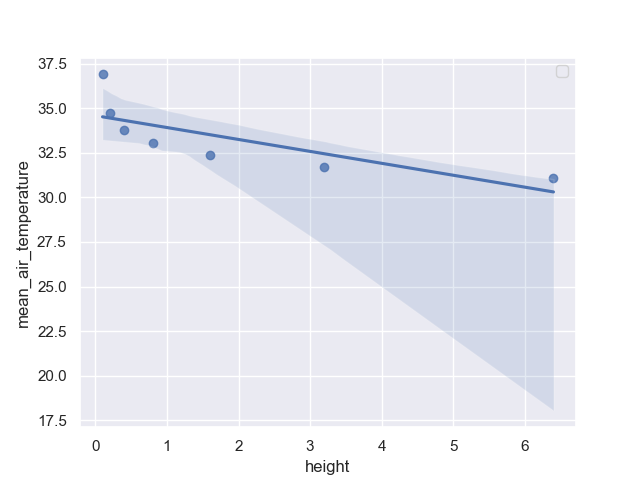
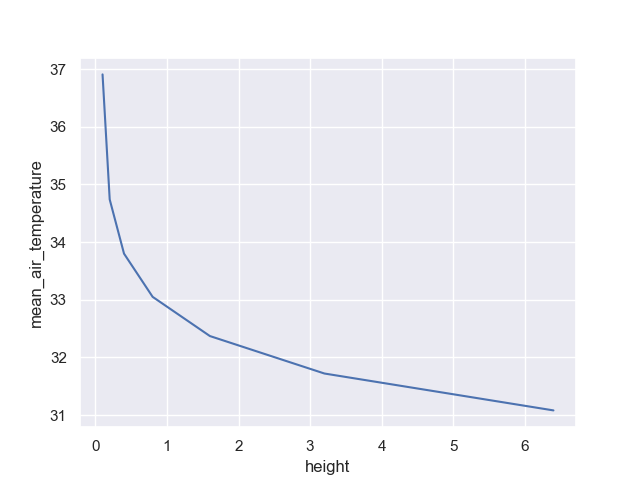
homework

diff --git a/u_and_temperature.py b/u_and_temperature.py
@@ -10,29 +10,28 @@ print(data.columns)
 h = 0.15
 data1b = np.log((data['height']-h*0.6)/(h*0.02))
 print(data1b)
-data['mean_temperature'] = data1b
-H = (8-data['mean_air_temperature'])*(0.4*1200*0.2)/data1b
+data['ln(z-d)/zH'] = data1b
+H = (38-data['mean_air_temperature'])*(0.4*1200*0.2)/data1b
 data['H'] = H
 print(data)
-
+res = ss.linregress(data['ln(z-d)/zH'], data['mean_air_temperature'])
+print(res)
 sns.set_theme(style="darkgrid")
-sns.regplot(x='height',
-            y='mean_air_temperature',
-            data=data)
+sns.lineplot(x='height',
+             y='mean_air_temperature',
+             data=data)
 
 plt.savefig("1a.png")
 plt.close()
 
 sns.set_theme(style="darkgrid")
-sns.regplot(x='height',
-            y='mean_temperature',
+sns.regplot(y='mean_air_temperature',
+            x='ln(z-d)/zH',
+            ci=None,
+            label=f' r\u00b2 = {res.rvalue**2:.2f} \n intercept = {res.intercept:.2f}',
             data=data)
+plt.legend(loc='upper right')
 plt.savefig("1b.png")
 plt.close()
 
-sns.set_theme(style="darkgrid")
-sns.lineplot(x='height',
-             y='H',
-             data=data)
-plt.savefig("1d.png")
-plt.close()
+print(data['H'].mean())

diff --git a/day_degree.py b/day_degree.py
@@ -1,0 +1,31 @@
+import pandas as pd
+import numpy as np
+from tqdm import tqdm
+
+df = pd.read_excel(r'C:\\Users\Administrator\Desktop\day_degree.xlsx')
+print(df)
+baseT = 3
+finalT = 900
+a = 0
+print(df['Tx'][1])
+i = 0
+for day in tqdm(range(120, 220)):
+    if (df['Tx'][i] + df['Tn'][i])/2 >= baseT:
+        a = a + (df['Tx'][i] + df['Tn'][i])/2
+    if a >= 900:
+        break
+    i = i + 1
+print(i, a, day)
+i1 = 150-119+1
+b = 0
+k = 0
+print(df['Tx'][i1])
+for day in tqdm(range(151, 220)):
+    if (df['Tx'][i1] + df['Tn'][i1])/2 >= baseT:
+        b = b + (df['Tx'][i1] + df['Tn'][i1])/2
+    if b >= finalT:
+        # print(k, day)
+        break
+    i1 = i1 + 1
+    k = k + 1
+print(i1, k, day, b)

diff --git a/tempCodeRunnerFile.py b/tempCodeRunnerFile.py
@@ -1,0 +1,9 @@
+for day in tqdm(range(151, 220)):
+#     print(i, b, k, day)
+#     if (df['Tx'][i] + df['Tn'][i])/2 >= baseT:
+#         b = b + (df['Tx'][i] + df['Tn'][i])/2
+#     if b >= a:
+#         print(k, day)
+#         break
+#     i = i + 1
+#     k = k + 1
